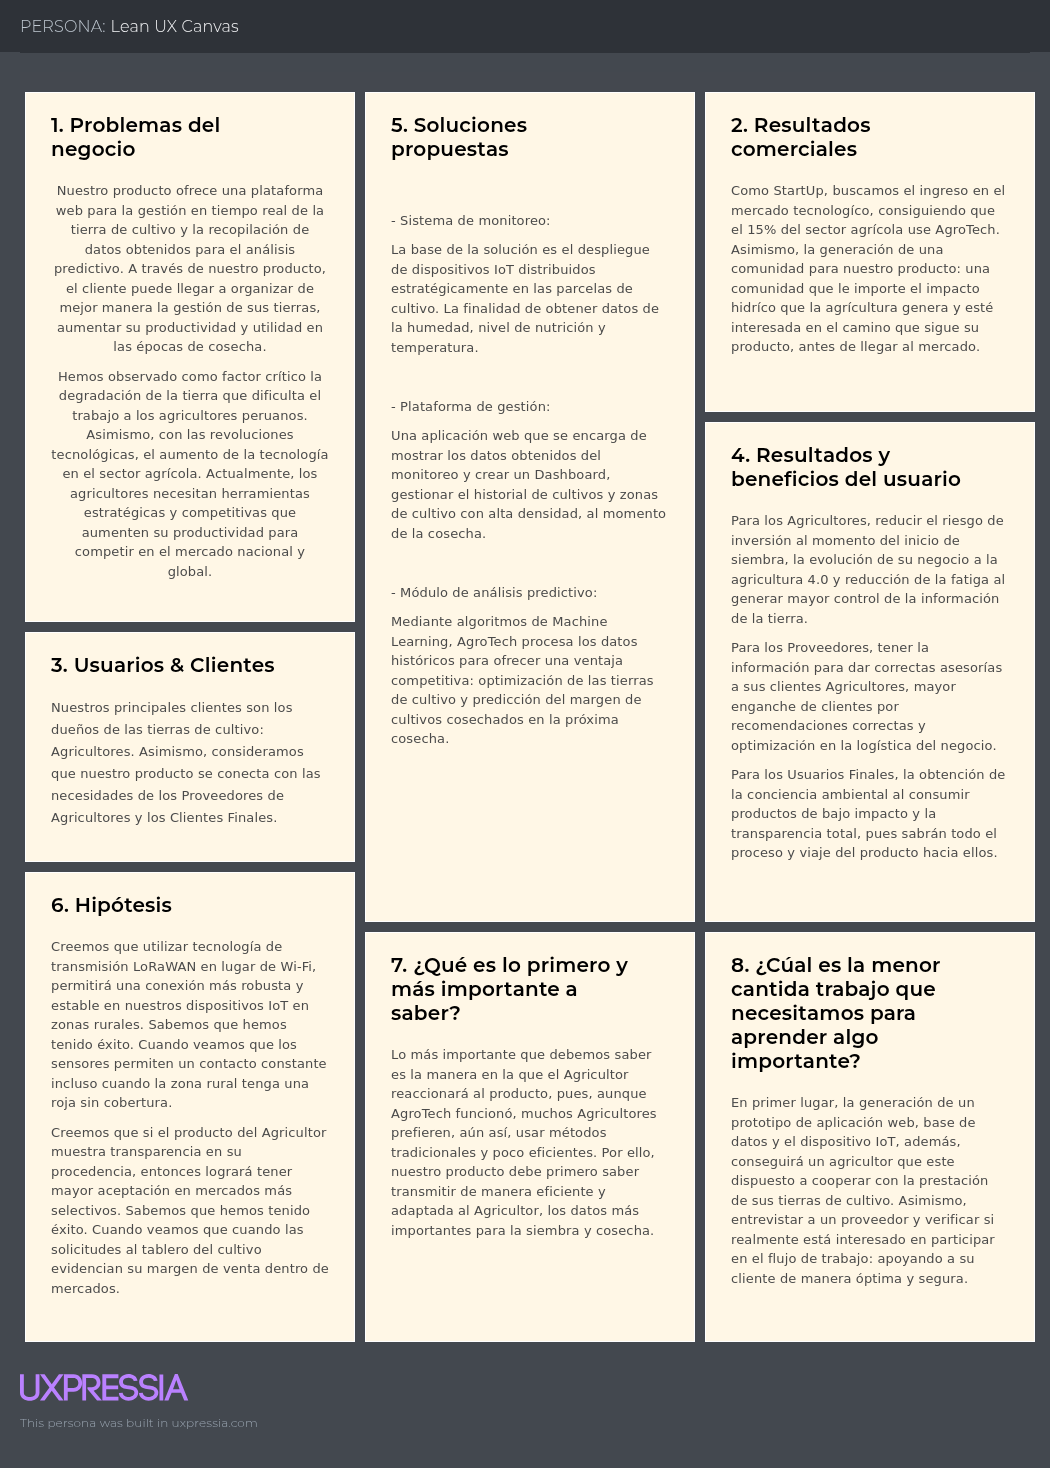
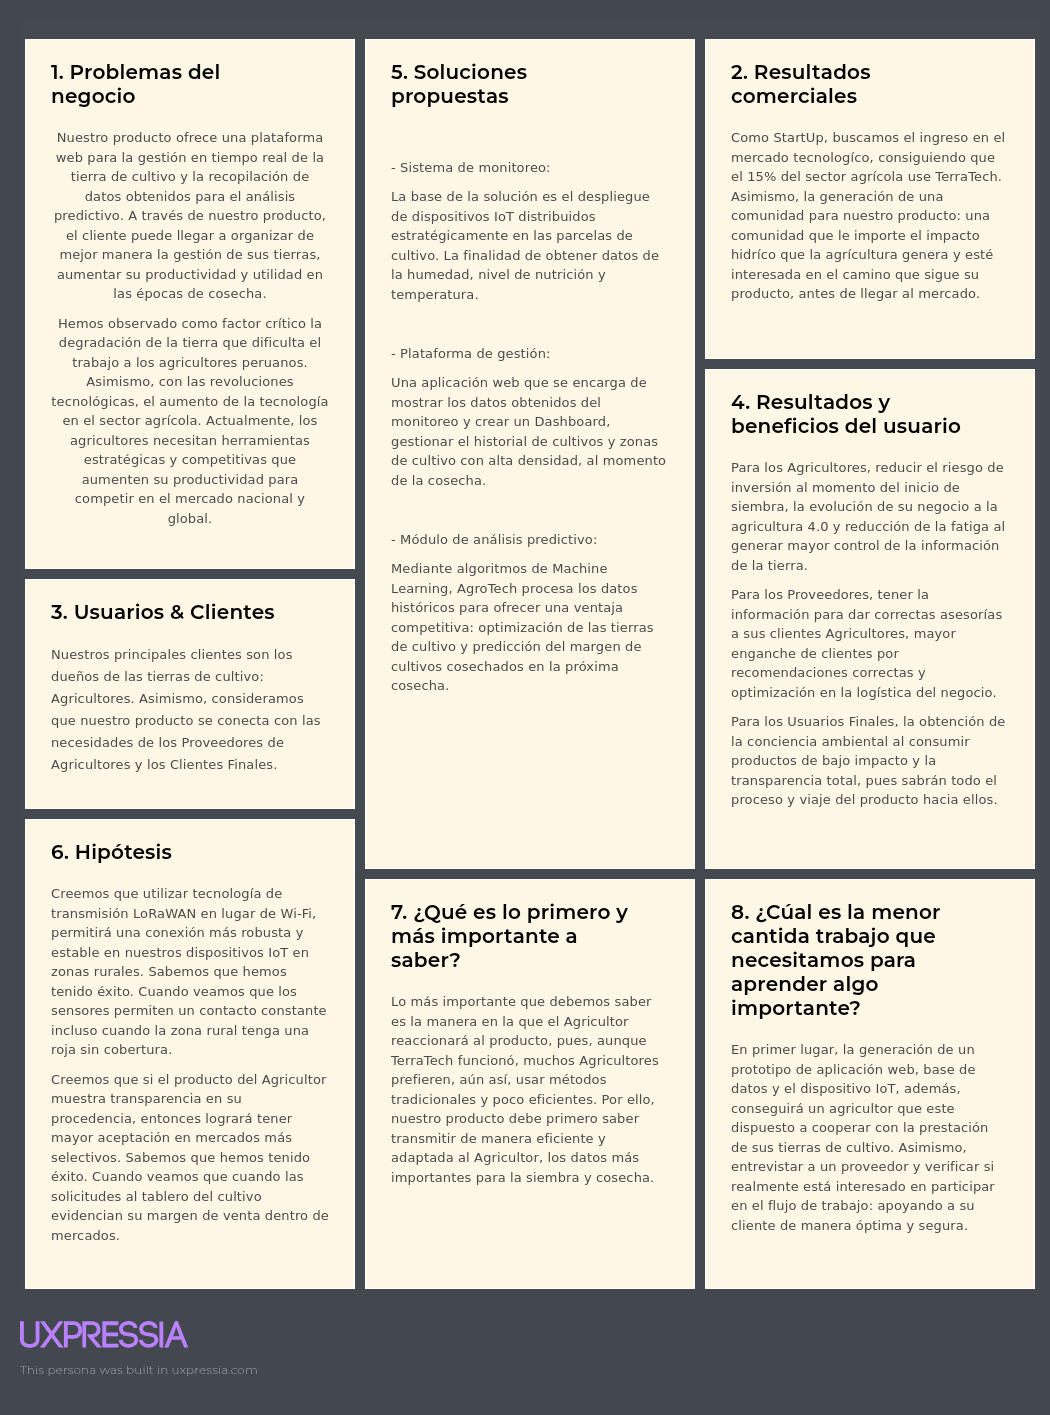
docs: change product's name

Changed region(s): [[0.0, 0.0, 1.0, 0.964], [0.6705, 0.9018, 0.9752, 0.9329], [0.3657, 0.9018, 0.64, 0.9329]]

diff --git a/README.md b/README.md
@@ -14,7 +14,7 @@
 
 **Informe de Trabajo Final**
 
-**Startup**: NovaTech
+**Startup**: TerraTech
 
 **Producto**: AgroTech
 
@@ -183,7 +183,7 @@ Student Outcome ABET: **ABET – EAC - Student Outcome 3** <br> Criterio: _Capac
 
 ## 1.1. Startup Profile
 
-NovaTech es una startup dedicada a transformar la vida de nuestros clientes mediante soluciones tecnológicas, eficientes y escalables en distintos sectores. Actualmente, tras detectar los desafíos críticos en el sector agricola, hemos creado AgroTech: una solución web que conectará la tecnología con la tierra. Mediante sensores de humedad y nutrientes, ofrecemos un control total a los sembríos en tiempo real. Asimismo, la aplicación analizará los datos entregados para generar recomendaciones y obtención de las zonas más fertiles para asegurar la obtención de las mejores cosechas en el futuro.
+NovaTech es una startup dedicada a transformar la vida de nuestros clientes mediante soluciones tecnológicas, eficientes y escalables en distintos sectores. Actualmente, tras detectar los desafíos críticos en el sector agricola, hemos creado TerraTech : una solución web que conectará la tecnología con la tierra. Mediante sensores de humedad y nutrientes, ofrecemos un control total a los sembríos en tiempo real. Asimismo, la aplicación analizará los datos entregados para generar recomendaciones y obtención de las zonas más fertiles para asegurar la obtención de las mejores cosechas en el futuro.
 
 **Misión:**
 
@@ -244,15 +244,15 @@ Ser la líder en la integración tecnológica multisectorial, reconocida por sol
 
 ## 1.2 Solution Profile
 
-AgroTech es una solución diseñada para el sector agricola que responde a las demandas del sector, aplicando soluciones mediante dispositivos IoT y análisis predictivo.
+TerraTech es una solución diseñada para el sector agricola que responde a las demandas del sector, aplicando soluciones mediante dispositivos IoT y análisis predictivo.
 
 Nuestro objetivo es transformar la gestión tradicional de los campos en uno actualizado, integrado tegnológia en la tierra para aumentar la precisión de su fertilidad, bases de datos en tiempo real y proyecciones de rendimiento para maximizar la eficiencia y rentabilidad de los cultivos.
 
 ### 1.2.1 Antecedentes y problemática
 
-Por un lado, la degradación de los suelos es uno de los principales desafíos críticos que la agricultura moderna enfrenta en nuestra región. El 45% de las tierras de cultivo en América del Sur ya presentan signos de deterioro (AgroPerú, 2025). Ante ello, surge la necesidad de implementar soluciones como AgroTech, que permitan el monitoreo de la calidad de tierra mediante dispositivos IoT, evitando la sobreexplotación y promoviendo la recuperación de tierra fértil.
+Por un lado, la degradación de los suelos es uno de los principales desafíos críticos que la agricultura moderna enfrenta en nuestra región. El 45% de las tierras de cultivo en América del Sur ya presentan signos de deterioro (AgroPerú, 2025). Ante ello, surge la necesidad de implementar soluciones como TerraTech , que permitan el monitoreo de la calidad de tierra mediante dispositivos IoT, evitando la sobreexplotación y promoviendo la recuperación de tierra fértil.
 
-Por otro lado, la agricultura 4.0 se basa en la utilización de tecnologías digitales dentro del sector, con la finalidad de obtener mejoras notables en la eficiencia, sostenibilidad y rentabilidad (CEPLAN, 2023). Por ello, con la finalidad de ofrecer una herramienta estratégica a los agricultores peruanos, AgroTech desarrolla soluciones competitivas de clase global, integrando IoT y análisis predictivo para transformar datos compilados en decisiones que aseguren la calidad en el futuro campo.
+Por otro lado, la agricultura 4.0 se basa en la utilización de tecnologías digitales dentro del sector, con la finalidad de obtener mejoras notables en la eficiencia, sostenibilidad y rentabilidad (CEPLAN, 2023). Por ello, con la finalidad de ofrecer una herramienta estratégica a los agricultores peruanos, TerraTech desarrolla soluciones competitivas de clase global, integrando IoT y análisis predictivo para transformar datos compilados en decisiones que aseguren la calidad en el futuro campo.
 
 ### 1.2.2 Lean UX Process
 
